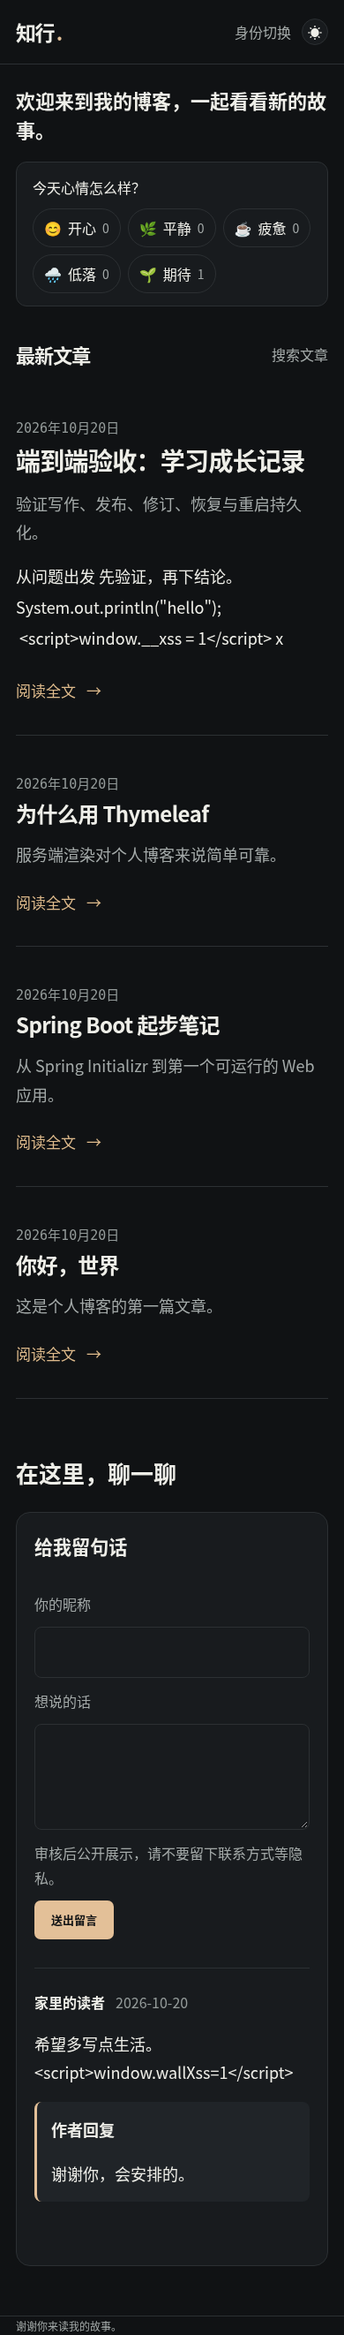
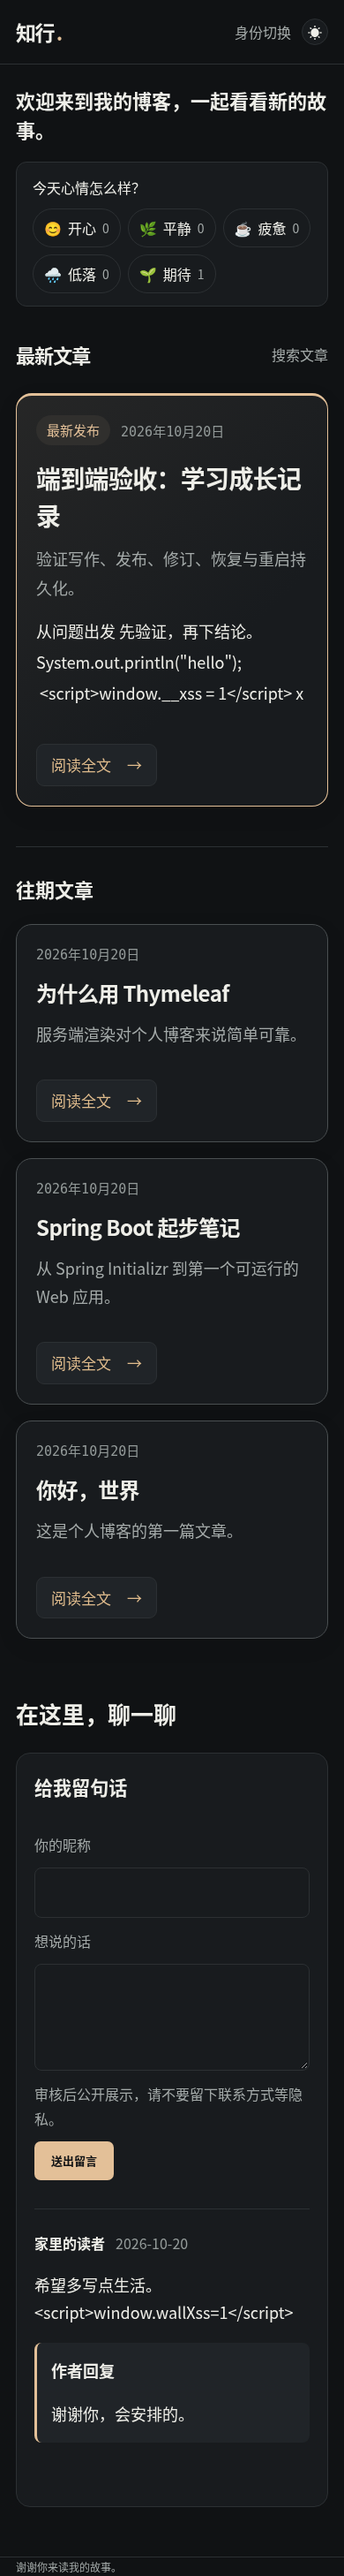
docs: refresh article card previews and layout validation

diff --git a/README.md b/README.md
@@ -47,7 +47,7 @@
 
 ### 读者首页与作者工作台
 
-欢迎语 → 简短心情签到 → 最新一篇较长的纯文本预览 → 其余文章和分页 → 作者投票与留言墙。搜索收进「搜索文章」，点击展开。没有大型宣传区、英文功能介绍或读者用不到的编辑入口。
+欢迎语 → 简短心情签到（仅首页第一页）→ 最新一篇独立精选卡片与较长纯文本预览 →「往期文章」独立卡片和分页 → 作者投票与留言墙。卡片有完整边框、圆角和清楚的阅读按钮；往期文章桌面双列、手机单列。搜索收进「搜索文章」，点击展开；翻页或搜索时不展示心情签到。没有大型宣传区、英文功能介绍或读者用不到的编辑入口。
 
 - **心情**：开心、平静、疲惫、低落、期待。按北京时间每日每浏览器一份，可修改；公开当天分布，不展示个人签到记录。
 - **投票**：作者一次发布一个当前投票，2～6 个选项；每浏览器单选，可修改，参与后才在首页展示结果。作者可结束投票，历史结果保留在工作台（最近 10 个）。
@@ -56,7 +56,7 @@
 
 匿名互动复用浏览器 Cookie，不保证一人一票。心情和投票每 IP 每分钟各 15 次、留言 5 次，均保留 CSRF；留言另外使用蜜罐和人工审核。清除 Cookie 或换设备后可再次参与。
 
-[读者首页实机截图](docs/screenshots/reader-home-mobile.png) · [作者工作台截图](docs/screenshots/author-workspace.png)
+[读者首页实机截图](docs/screenshots/reader-home-mobile.png) · [浅色首页](docs/screenshots/home-light-desktop.png) · [作者工作台截图](docs/screenshots/author-workspace.png)
 
 ### 两个重点设计
 
@@ -234,7 +234,7 @@ docker compose up -d --build
 bash mvnw -B -ntp verify
 ```
 
-当前基线：**112 项测试，0 失败、0 错误、0 跳过**。包括原有业务、事务/并发、Markdown 安全、版本对比、认证、限流和数据库迁移。
+当前基线：**113 项测试，0 失败、0 错误、0 跳过**。包括原有业务、事务/并发、Markdown 安全、版本对比、认证、限流和数据库迁移。
 
 ### 真实浏览器
 

diff --git a/docs/UPGRADE.md b/docs/UPGRADE.md
@@ -46,3 +46,7 @@
 ## 2026-10-20：内容优先与身份分离
 
 按用户确认的布局重做读者首页，弱化搜索并保留分页、提高正文字号。作者登录后进入独立工作台。加入每日五种心情、单选投票、带审核与作者回复的留言墙、欢迎语配置及所需统计；无访问追踪。V3 新增表，保留 V1/V2；代码、界面与验证、文档截图按真实阶段提交。
+
+## 文章卡片边界与心情展示范围
+
+最新发布独立精选卡片，往期文章另起分区并使用独立边框卡片，桌面双列、手机单列；提升阅读按钮与鼠标/键盘反馈，保留减少动态效果的系统偏好。心情仅显示在首页第一页，不出现在翻页和搜索结果。复用现有数据，不新增迁移。
